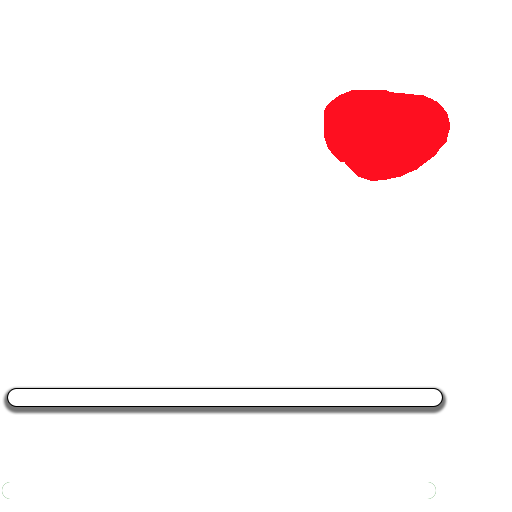
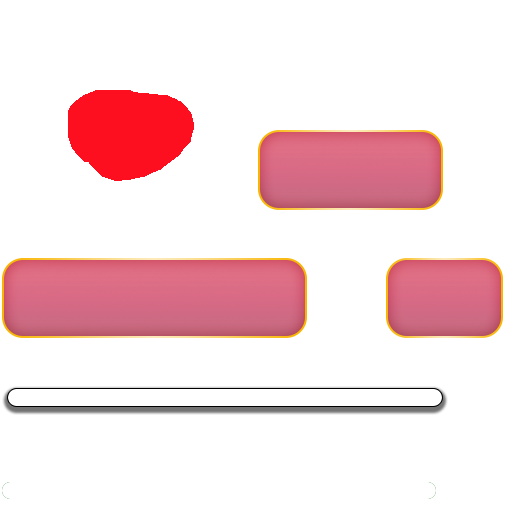
a

diff --git a/scripts/c3runtime.js b/scripts/c3runtime.js
@@ -3560,6 +3560,45 @@ this._isEnabled=true;this._StartTicking()}}};
 }
 
 {
+'use strict';const C3=self.C3;
+C3.Behaviors.DragnDrop=class DragnDropBehavior extends C3.SDKBehaviorBase{constructor(opts){super(opts);const rt=this._runtime.Dispatcher();this._disposables=new C3.CompositeDisposable(C3.Disposable.From(rt,"pointerdown",e=>this._OnPointerDown(e.data)),C3.Disposable.From(rt,"pointermove",e=>this._OnPointerMove(e.data)),C3.Disposable.From(rt,"pointerup",e=>this._OnPointerUp(e.data,false)),C3.Disposable.From(rt,"pointercancel",e=>this._OnPointerUp(e.data,true)))}Release(){this._disposables.Release();this._disposables=
+null;super.Release()}_OnPointerDown(e){if(e["pointerType"]==="mouse"&&e["button"]!==0)return;this._OnInputDown(e["pointerId"].toString(),e["pageX"]-this._runtime.GetCanvasClientX(),e["pageY"]-this._runtime.GetCanvasClientY())}_OnPointerMove(e){if((e["lastButtons"]&1)!==0&&(e["buttons"]&1)===0)this._OnInputUp(e["pointerId"].toString());else this._OnInputMove(e["pointerId"].toString(),e["pageX"]-this._runtime.GetCanvasClientX(),e["pageY"]-this._runtime.GetCanvasClientY())}_OnPointerUp(e,isCancel){if(e["pointerType"]===
+"mouse"&&e["button"]!==0)return;this._OnInputUp(e["pointerId"].toString())}async _OnInputDown(src,clientX,clientY){const myInstances=this.GetInstances();let topMost=null;let topBehInst=null;let topX=0;let topY=0;for(const inst of myInstances){const behInst=inst.GetBehaviorSdkInstanceFromCtor(C3.Behaviors.DragnDrop);if(!behInst.IsEnabled()||behInst.IsDragging())continue;const wi=inst.GetWorldInfo();const layer=wi.GetLayer();const [lx,ly]=layer.CanvasCssToLayer(clientX,clientY,wi.GetTotalZElevation());
+if(!wi.ContainsPoint(lx,ly))continue;if(!topMost){topMost=inst;topBehInst=behInst;topX=lx;topY=ly;continue}const topWi=topMost.GetWorldInfo();if(layer.GetIndex()>topWi.GetLayer().GetIndex()||layer.GetIndex()===topWi.GetLayer().GetIndex()&&wi.GetZIndex()>topWi.GetZIndex()){topMost=inst;topBehInst=behInst;topX=lx;topY=ly}}if(topMost)await topBehInst._OnDown(src,topX,topY)}_OnInputMove(src,clientX,clientY){const myInstances=this.GetInstances();for(const inst of myInstances){const behInst=inst.GetBehaviorSdkInstanceFromCtor(C3.Behaviors.DragnDrop);
+if(!behInst.IsEnabled()||!behInst.IsDragging()||behInst.IsDragging()&&behInst.GetDragSource()!==src)continue;const wi=inst.GetWorldInfo();const layer=wi.GetLayer();const [lx,ly]=layer.CanvasCssToLayer(clientX,clientY,wi.GetTotalZElevation());behInst._OnMove(lx,ly)}}async _OnInputUp(src){const myInstances=this.GetInstances();for(const inst of myInstances){const behInst=inst.GetBehaviorSdkInstanceFromCtor(C3.Behaviors.DragnDrop);if(behInst.IsDragging()&&behInst.GetDragSource()===src)await behInst._OnUp()}}};
+
+}
+
+{
+'use strict';const C3=self.C3;C3.Behaviors.DragnDrop.Type=class DragnDropType extends C3.SDKBehaviorTypeBase{constructor(behaviorType){super(behaviorType)}Release(){super.Release()}OnCreate(){}};
+
+}
+
+{
+'use strict';const C3=self.C3;const AXES=0;const ENABLE=1;
+C3.Behaviors.DragnDrop.Instance=class DragnDropInstance extends C3.SDKBehaviorInstanceBase{constructor(behInst,properties){super(behInst);this._isDragging=false;this._dx=0;this._dy=0;this._dragSource="<none>";this._axes=0;this._isEnabled=true;if(properties){this._axes=properties[AXES];this._isEnabled=properties[ENABLE]}}Release(){super.Release()}SaveToJson(){return{"a":this._axes,"e":this._isEnabled}}LoadFromJson(o){this._axes=o["a"];this._isEnabled=o["e"];this._isDragging=false}IsEnabled(){return this._isEnabled}IsDragging(){return this._isDragging}GetDragSource(){return this._dragSource}async _OnDown(src,
+x,y){const wi=this.GetWorldInfo();this._dx=x-wi.GetX();this._dy=y-wi.GetY();this._isDragging=true;this._dragSource=src;await this.TriggerAsync(C3.Behaviors.DragnDrop.Cnds.OnDragStart)}_OnMove(x,y){const wi=this.GetWorldInfo();const newX=x-this._dx;const newY=y-this._dy;if(this._axes===0){if(wi.GetX()!==newX||wi.GetY()!==newY){wi.SetXY(newX,newY);wi.SetBboxChanged()}}else if(this._axes===1){if(wi.GetX()!==newX){wi.SetX(newX);wi.SetBboxChanged()}}else if(this._axes===2)if(wi.GetY()!==newY){wi.SetY(newY);
+wi.SetBboxChanged()}}async _OnUp(){this._isDragging=false;await this.TriggerAsync(C3.Behaviors.DragnDrop.Cnds.OnDrop)}GetPropertyValueByIndex(index){switch(index){case AXES:return this._axes;case ENABLE:return this._isEnabled}}SetPropertyValueByIndex(index,value){switch(index){case AXES:this._axes=value;break;case ENABLE:this._isEnabled=!!value;break}}GetDebuggerProperties(){const prefix="behaviors.dragndrop";return[{title:"$"+this.GetBehaviorType().GetName(),properties:[{name:prefix+".debugger.is-dragging",
+value:this._isDragging},{name:prefix+".properties.enabled.name",value:this._isEnabled,onedit:v=>this._isEnabled=v}]}]}};
+
+}
+
+{
+'use strict';const C3=self.C3;C3.Behaviors.DragnDrop.Cnds={IsDragging(){return this._isDragging},OnDragStart(){return true},OnDrop(){return true},IsEnabled(){return this._isEnabled}};
+
+}
+
+{
+'use strict';const C3=self.C3;C3.Behaviors.DragnDrop.Acts={SetEnabled(e){this._isEnabled=!!e;if(!this._isEnabled)this._isDragging=false},SetAxes(a){this._axes=a},Drop(){if(this._isDragging)this._OnUp()}};
+
+}
+
+{
+'use strict';const C3=self.C3;C3.Behaviors.DragnDrop.Exps={};
+
+}
+
+{
 const C3 = self.C3;
 self.C3_GetObjectRefTable = function () {
 	return [
@@ -3568,6 +3607,7 @@ self.C3_GetObjectRefTable = function () {
 		C3.Plugins.Sprite,
 		C3.Behaviors.Tween,
 		C3.Behaviors.Anchor,
+		C3.Behaviors.DragnDrop,
 		C3.Plugins.System.Cnds.OnLayoutStart,
 		C3.Plugins.DrawingCanvas.Acts.FillLinearGradient,
 		C3.Plugins.System.Exps.rgba
@@ -3581,7 +3621,16 @@ self.C3_JsPropNameTable = [
 	{Rxn: 0},
 	{Gbar: 0},
 	{VkW: 0},
-	{transBar: 0}
+	{transBar: 0},
+	{occ: 0},
+	{xpos: 0},
+	{ypos: 0},
+	{valu: 0},
+	{set: 0},
+	{"8HtZx": 0},
+	{PAipY: 0},
+	{DRAGABLE_UI: 0},
+	{DraggUIFam: 0}
 ];
 }
 
